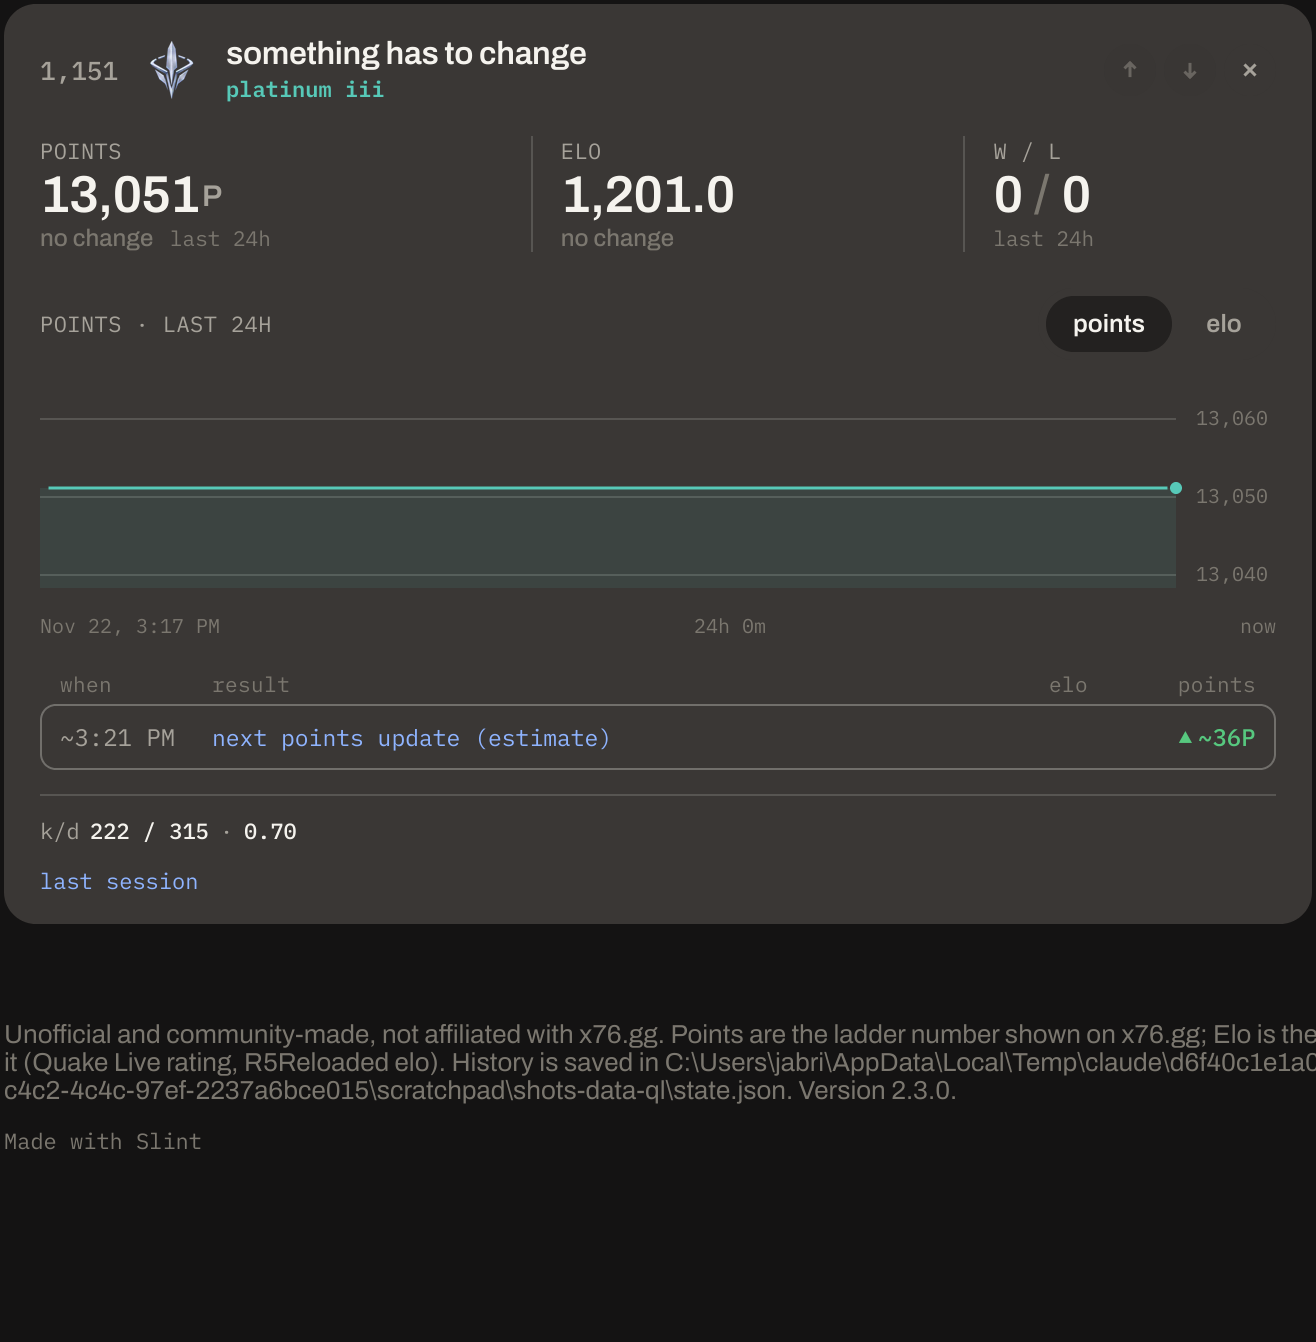
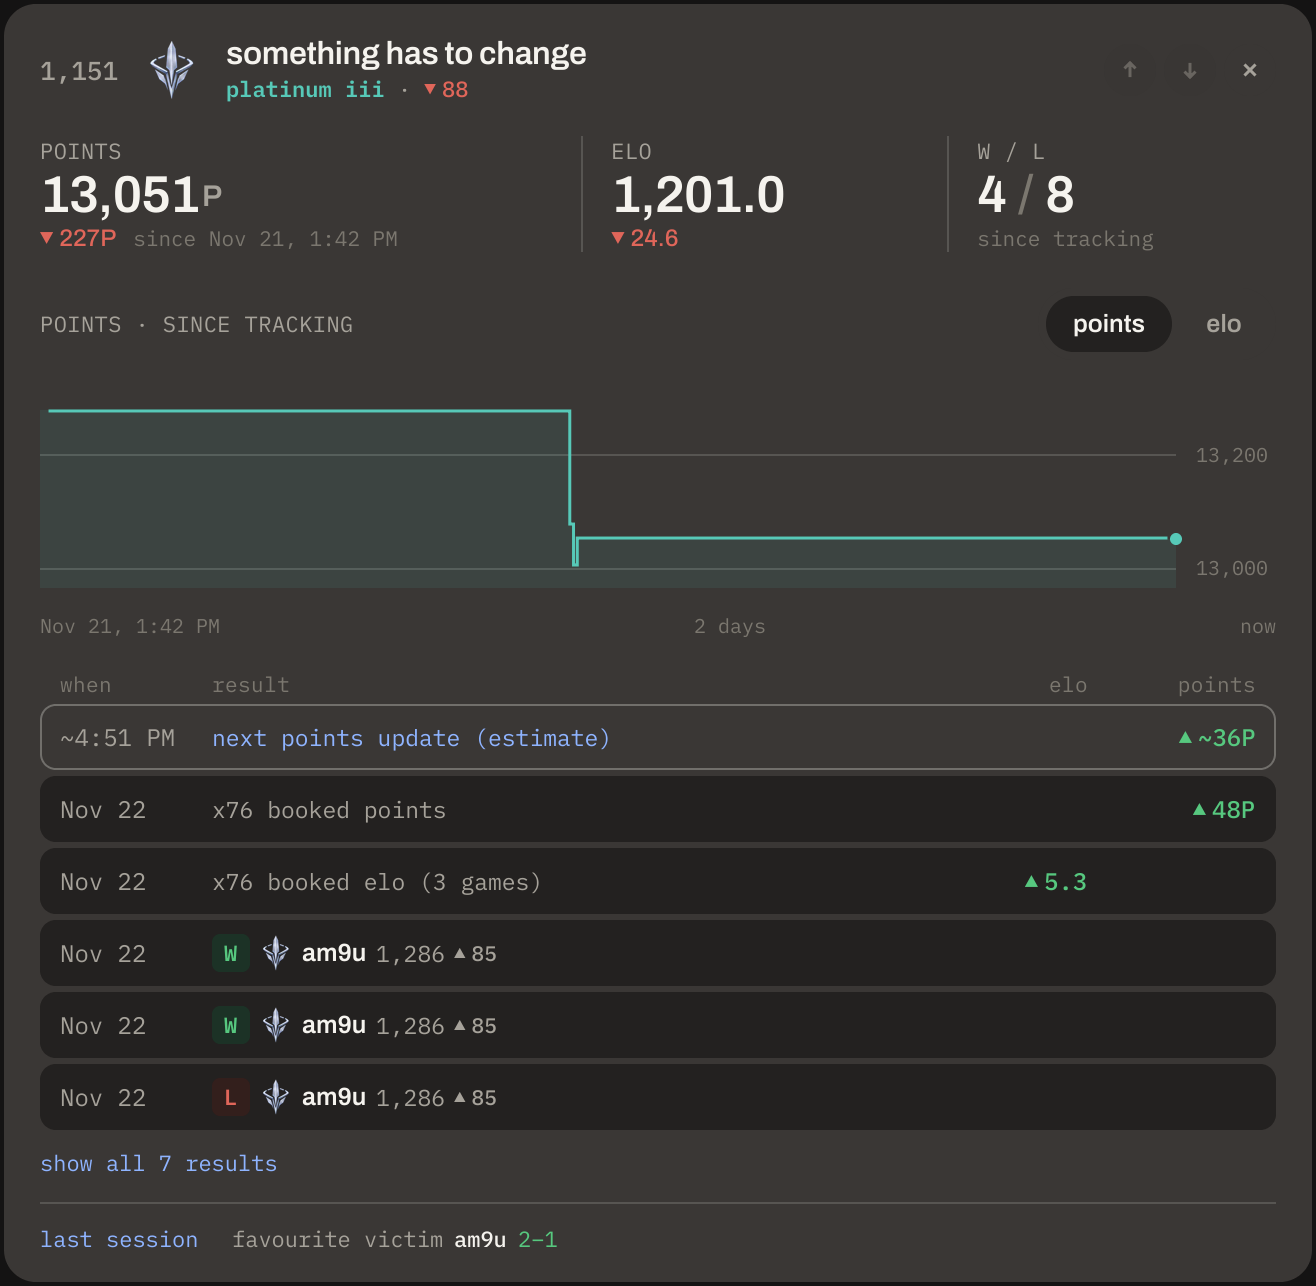
Drop the stats line under each card; settings switches flip right away
The k/d, acc and x76 24h line under the Quake Live and R5Reloaded cards
is gone (feedback from bob). The settings page was only rebuilt when
the Discord settings changed, so the game-log, recap and notification
switches could stay put while their status changed; their state is now
part of the page's signature.

diff --git a/src/main.rs b/src/main.rs
@@ -512,7 +512,16 @@ fn set_discord_page(app: &AppWindow, core: &tracker::Core, force: bool) {
     let mut cfg = discord::Config::load(core);
     cfg.custom.clear();
     let favs: Vec<(&str, &str, &str)> = core.state.favorites.iter().map(|f| (f.game.as_str(), f.id.as_str(), f.name.as_str())).collect();
-    let sig = format!("{}|{}|{favs:?}", serde_json::to_string(&cfg).unwrap_or_default(), core.discord.token.is_some());
+    // everything the page shows from elsewhere too: the game-log switches, recap and notifications
+    let sig = format!(
+        "{}|{}|{favs:?}|{:?}|{:?}|{:?}|{}",
+        serde_json::to_string(&cfg).unwrap_or_default(),
+        core.discord.token.is_some(),
+        core.r5patch,
+        core.qllog,
+        core.state.settings.get("recapAuto"),
+        core.notify_on()
+    );
     let changed = DISCORD_SIG.with(|s| {
         let mut s = s.borrow_mut();
         let changed = force || *s != sig;

diff --git a/CHANGELOG.md b/CHANGELOG.md
@@ -9,7 +9,7 @@ Each version's section is shown in the app (What's new) and used as its GitHub r
 ### New
 
 - **Quake Live opponents:** your fights in x76's LG arena now show up like R5Reloaded's: who you fought, their tier, rank and Elo, how far above or below you they were, your chance on paper, and upsets. Each fight also shows both players' accuracy, as the x76 server prints it after the fight. Click a result to see its fights, and track an opponent with one click.
-  ![Quake Live fights on the board, with your accuracy over the last 24 hours](docs/changelog/2.3.0-ql-board@2x.png)
+  ![Quake Live fights on the board: W, W, L against am9u](docs/changelog/2.3.0-ql-board@2x.png)
 - **Console log switch:** Settings → General → Log who I fight in Quake Live adds set logfile 2 to Quake Live's autoexec.cfg, so the game saves its console to qconsole.log for x76tracker to read. Switching it off takes the line out again. To start without restarting the game, type \set logfile 2 in its console.
   ![The Quake Live opponents switch in Settings](docs/changelog/2.3.0-ql-settings@2x.png)
 - **Rivals:** click an opponent's name in a result's fights, or in your card's footer, to see your head-to-head with them. It shows your all-time record and their Elo now. You also get both players' accuracy in Quake Live or the upsets in R5Reloaded, when you first met, and every fight between you.
@@ -25,13 +25,13 @@ Each version's section is shown in the app (What's new) and used as its GitHub r
 
 ### Improved
 
-- **Quake Live stats:** your Quake Live card shows your average accuracy over the period's fights.
 - **Discord is experimental:** Rich Presence and the profile widget moved to their own tab, Settings → Experimental. Both are off until you turn them on, and nothing changes if you already use them.
   ![Settings → Experimental: Rich Presence and the Discord profile widget](docs/changelog/2.3.0-experimental@2x.png)
-- **Looks more like x76.gg:** switches are x76 blue, smaller, and their knob springs across. Avatars are rounded squares. The Today / Last 24h / All tracked and points / elo switches are x76's mono filter pills, and the chosen option slides over. Settings headings are in sentence case. Servers show online or offline as a word, with one blue segment per player slot. Pop-ups dim the window in its own warm colour instead of black, and loading messages lose their "…".
+- **Looks more like x76.gg:** switches are x76 blue, smaller, and their knob springs across. Avatars are rounded squares. The Today / Last 24h / All tracked and points / elo switches are smaller x76-style pills, and the chosen option slides over. Settings headings are in sentence case. Servers show online or offline as a word, with one blue segment per player slot. Pop-ups dim the window in its own warm colour instead of black, loading messages lose their "…", and the k/d and 24h stats line under each card is gone.
 
 ### Fixed
 
+- **Settings switches:** the game-log, recap and notification switches now flip as soon as you change them. Before, the status under them changed but the switch could stay where it was.
 - **Sharper pictures:** rank emblems, your avatar and banner, and the pictures in What's new are resized smoothly to the exact size they're shown at, in the app and in saved share cards. Before, shrinking them dropped pixels, so emblems looked grainy and text in pictures looked thin and jagged. In the picture, the top half is before the fix and the bottom half is now.
   ![The same part of a picture twice: on top, thin broken letters and a jagged emblem; below, smooth and even](docs/changelog/2.3.0-sharp-pictures.png)
 
